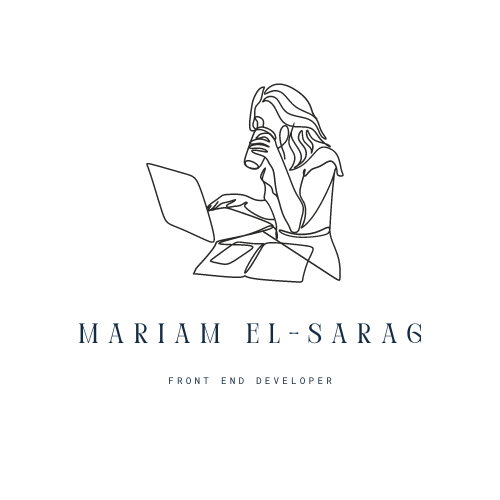
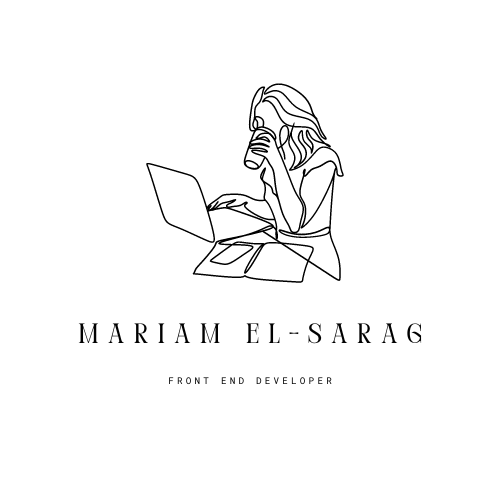
update profile picture and cv

diff --git a/tailwind.config.js b/tailwind.config.js
@@ -6,7 +6,7 @@ export default {
     extend: {
       colors: {
         Black: "#060606",
-        headingColor: "#142B43",
+        headingColor: "#000",
         Gray: "#A7A7A7",
         Blue: "#13B0F5",
         Pink: "#E70FAA ",
